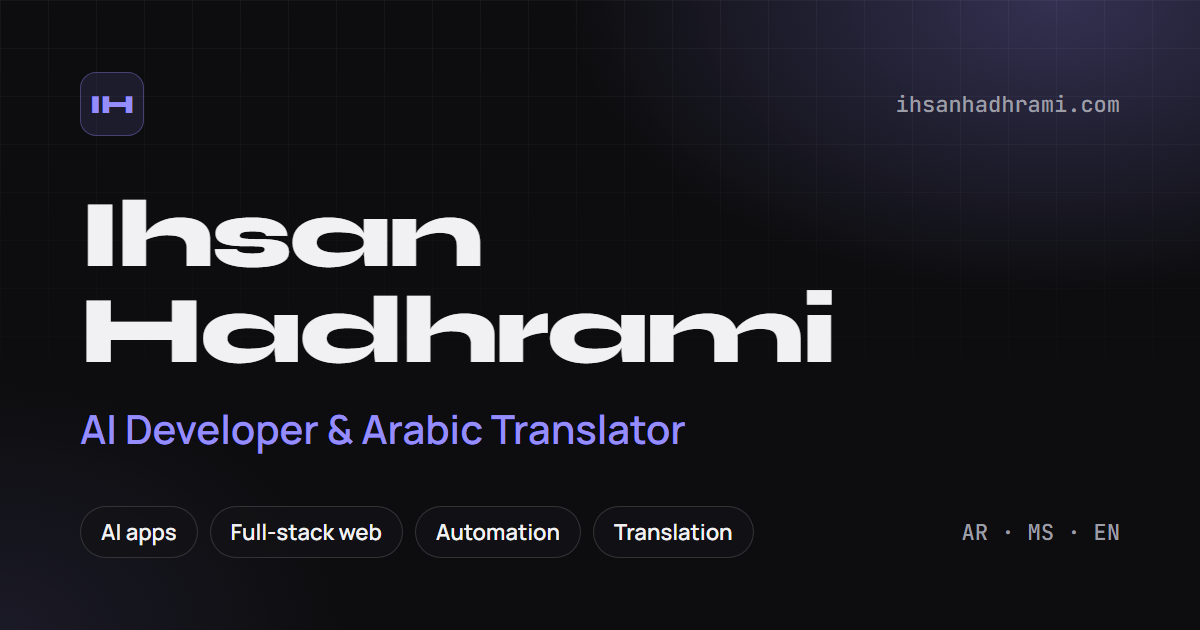
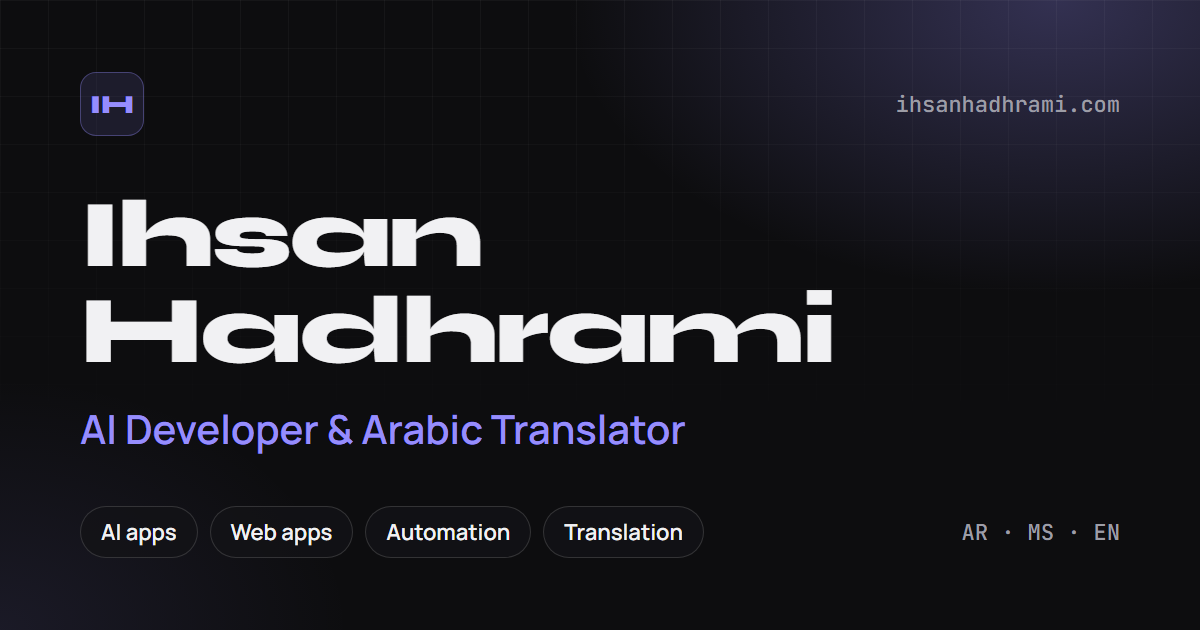
Describe the web work as web apps, not full-stack
None of the web projects pairs a custom frontend with an API and
database built end to end, so "full-stack" overstated them. Updates
the bio, hero, About section, share tags, skills heading, and the OG
image chip, and bumps the OG image version so social caches refresh.

Changed region(s): [[0.185, 0.8143, 0.6167, 0.8746]]

diff --git a/index.html b/index.html
@@ -41,12 +41,12 @@
     />
     <meta
       property="og:description"
-      content="AI developer and Arabic translator. I build RAG and agentic AI apps, full-stack web apps, and Python automation, and translate Arabic into Malay and English."
+      content="AI developer and Arabic translator. I build RAG and agentic AI apps, web apps, and Python automation, and translate Arabic into Malay and English."
     />
     <meta property="og:url" content="https://ihsanhadhrami.com/" />
     <meta
       property="og:image"
-      content="https://ihsanhadhrami.com/og-image.png?v=3"
+      content="https://ihsanhadhrami.com/og-image.png?v=4"
     />
     <meta property="og:image:width" content="1200" />
     <meta property="og:image:height" content="630" />
@@ -63,11 +63,11 @@
     />
     <meta
       name="twitter:description"
-      content="AI developer and Arabic translator. I build RAG and agentic AI apps, full-stack web apps, and Python automation, and translate Arabic into Malay and English."
+      content="AI developer and Arabic translator. I build RAG and agentic AI apps, web apps, and Python automation, and translate Arabic into Malay and English."
     />
     <meta
       name="twitter:image"
-      content="https://ihsanhadhrami.com/og-image.png?v=3"
+      content="https://ihsanhadhrami.com/og-image.png?v=4"
     />
 
     <link rel="preconnect" href="https://fonts.googleapis.com" />

diff --git a/src/constants/site.ts b/src/constants/site.ts
@@ -18,10 +18,10 @@ export const SITE = {
    */
   role: 'AI Developer & Arabic Translator',
   shortBio:
-    'AI developer and Arabic translator. I build RAG and agentic AI apps, full-stack web apps, and Python automation, and translate Arabic into Malay and English.',
+    'AI developer and Arabic translator. I build RAG and agentic AI apps, web apps, and Python automation, and translate Arabic into Malay and English.',
   /** Hero sub-line. Every side of the work, held together by one thread. */
   focus:
-    'I build AI applications with RAG and agentic AI, ship full-stack web apps and Python automation, and translate Arabic into Malay and English. Most of my work sits where language meets software.',
+    'I build AI applications with RAG and agentic AI, ship web apps and Python automation, and translate Arabic into Malay and English. Most of my work sits where language meets software.',
   url: import.meta.env.VITE_SITE_URL ?? 'https://ihsanhadhrami.com',
   location: 'Remote · Available worldwide',
   email: 'ihadhrami20@gmail.com',

diff --git a/src/components/sections/home/about-section.tsx b/src/components/sections/home/about-section.tsx
@@ -36,11 +36,11 @@ export function AboutSection({ number, label }: AboutSectionProps) {
               own documents, and writing about how models read Arabic.
             </p>
             <p>
-              I also ship full-stack web apps and Python automation that turns
-              hours of manual work into minutes, and I translate Arabic into
-              Malay and English. Working across three languages is why Arabic is
-              where my AI work focuses: English-first tooling breaks on it, and
-              that gap is the interesting part.
+              I also ship web apps and Python automation that turns hours of
+              manual work into minutes, and I translate Arabic into Malay and
+              English. Working across three languages is why Arabic is where my
+              AI work focuses: English-first tooling breaks on it, and that gap
+              is the interesting part.
             </p>
           </div>
           <Link

diff --git a/src/data/skills.ts b/src/data/skills.ts
@@ -2,7 +2,7 @@ import type { SkillGroup } from '@/types';
 
 /**
  * One group per side of the work, in the same order the bio names them:
- * AI applications, full-stack web, Python automation, then language and
+ * AI applications, web development, Python automation, then language and
  * translation. Tools are only listed when a project or real work backs
  * them. The AI group's stack (LangChain, ChromaDB, watsonx.ai, Sentence
  * Transformers) is what Ihsan builds RAG with today, through IBM's
@@ -29,7 +29,7 @@ export const skillGroups: readonly SkillGroup[] = [
     ],
   },
   {
-    category: 'Full-Stack Web',
+    category: 'Web Development',
     icon: 'LayoutDashboard',
     skills: [
       { name: 'React', brand: 'react' },

diff --git a/scripts/og-image/template.html b/scripts/og-image/template.html
@@ -132,7 +132,7 @@
     <div class="bottom">
       <div class="chips">
         <span class="chip">AI apps</span>
-        <span class="chip">Full-stack web</span>
+        <span class="chip">Web apps</span>
         <span class="chip">Automation</span>
         <span class="chip">Translation</span>
       </div>
